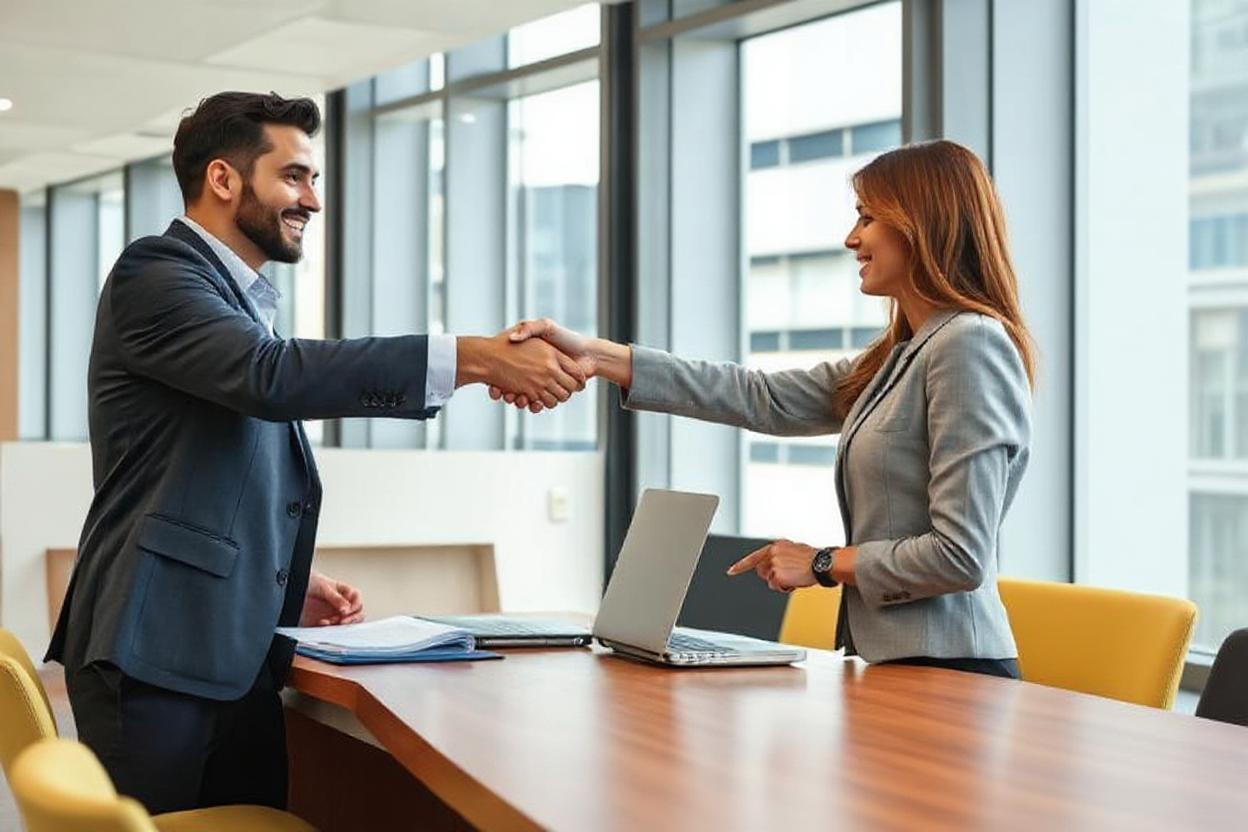
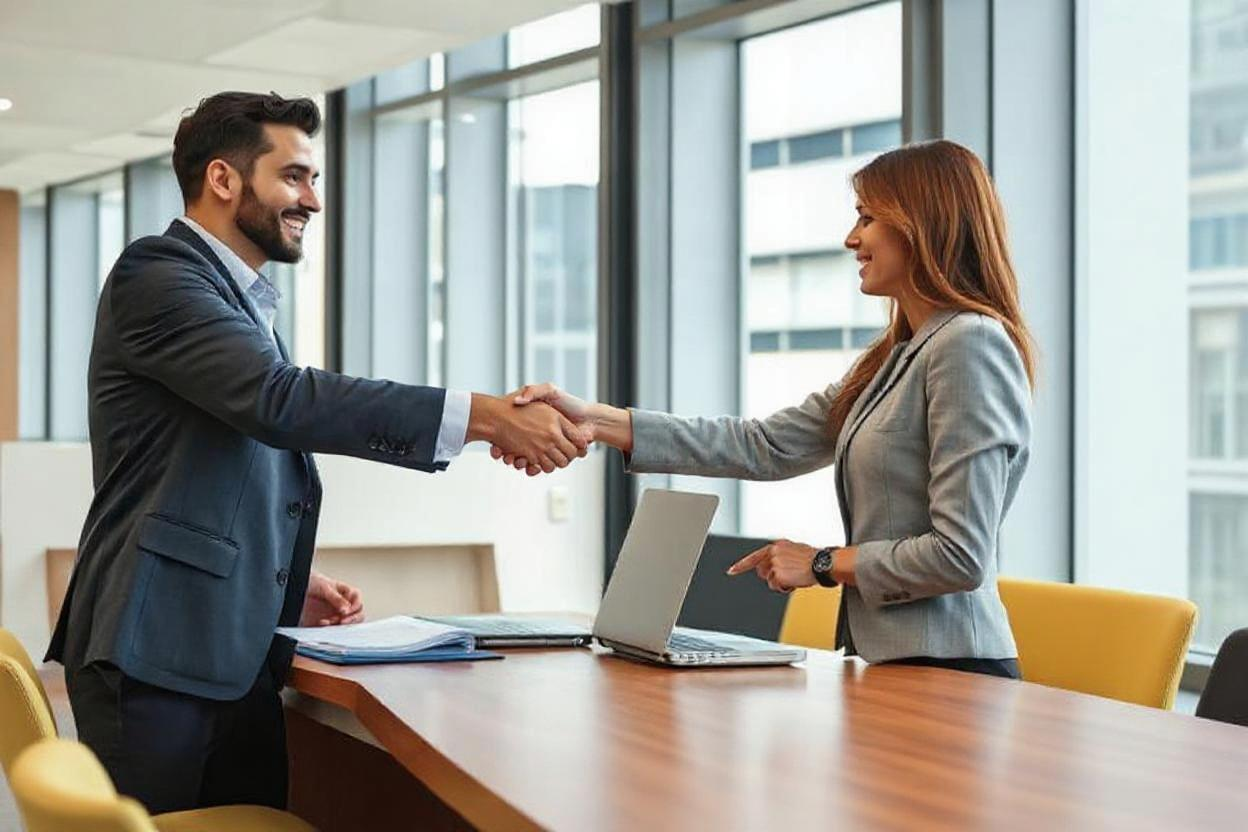
Update images for Kitchen Partner services
Adjusted the image for "Samarbeta med oss" by lowering the arm position. Replaced the AI-generated image for "Säkerhet & försäkring" with a real-world image.

Changed region(s): [[0.1875, 0.375, 0.6875, 0.5938]]

diff --git a/src/components/services/KitchenPartnerServices.tsx b/src/components/services/KitchenPartnerServices.tsx
@@ -5,7 +5,7 @@ import { Building, Calendar, Shield, TrendingUp, Truck } from "lucide-react";
 import rentKitchenImage from "@/assets/service-rent-kitchen.jpg";
 import deliveryImage from "@/assets/service-delivery.jpg";
 import partnershipImage from "@/assets/partnership-collaboration.jpg";
-import securityImage from "@/assets/kitchen-security.jpg";
+import securityImage from "@/assets/fire-extinguisher-kitchen.jpg";
 
 const kitchenPartnerServices = [
   {
